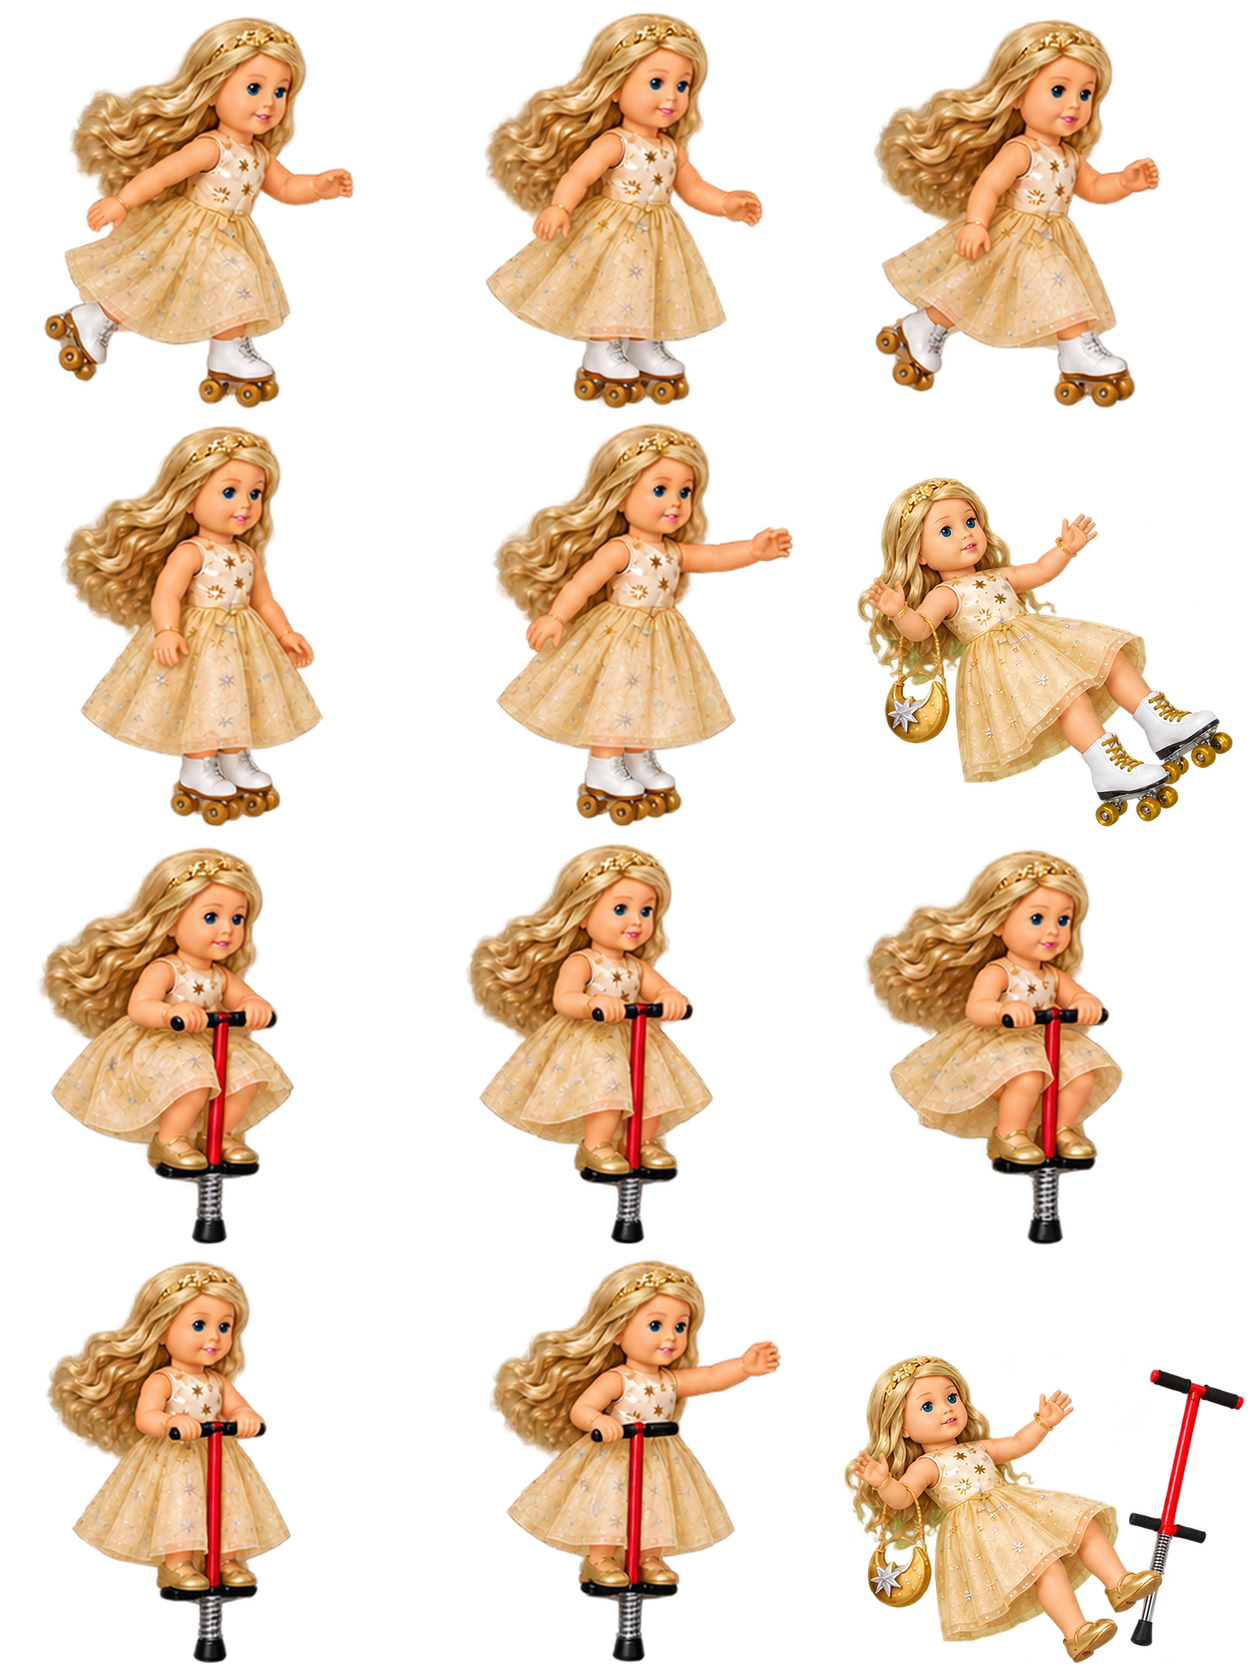
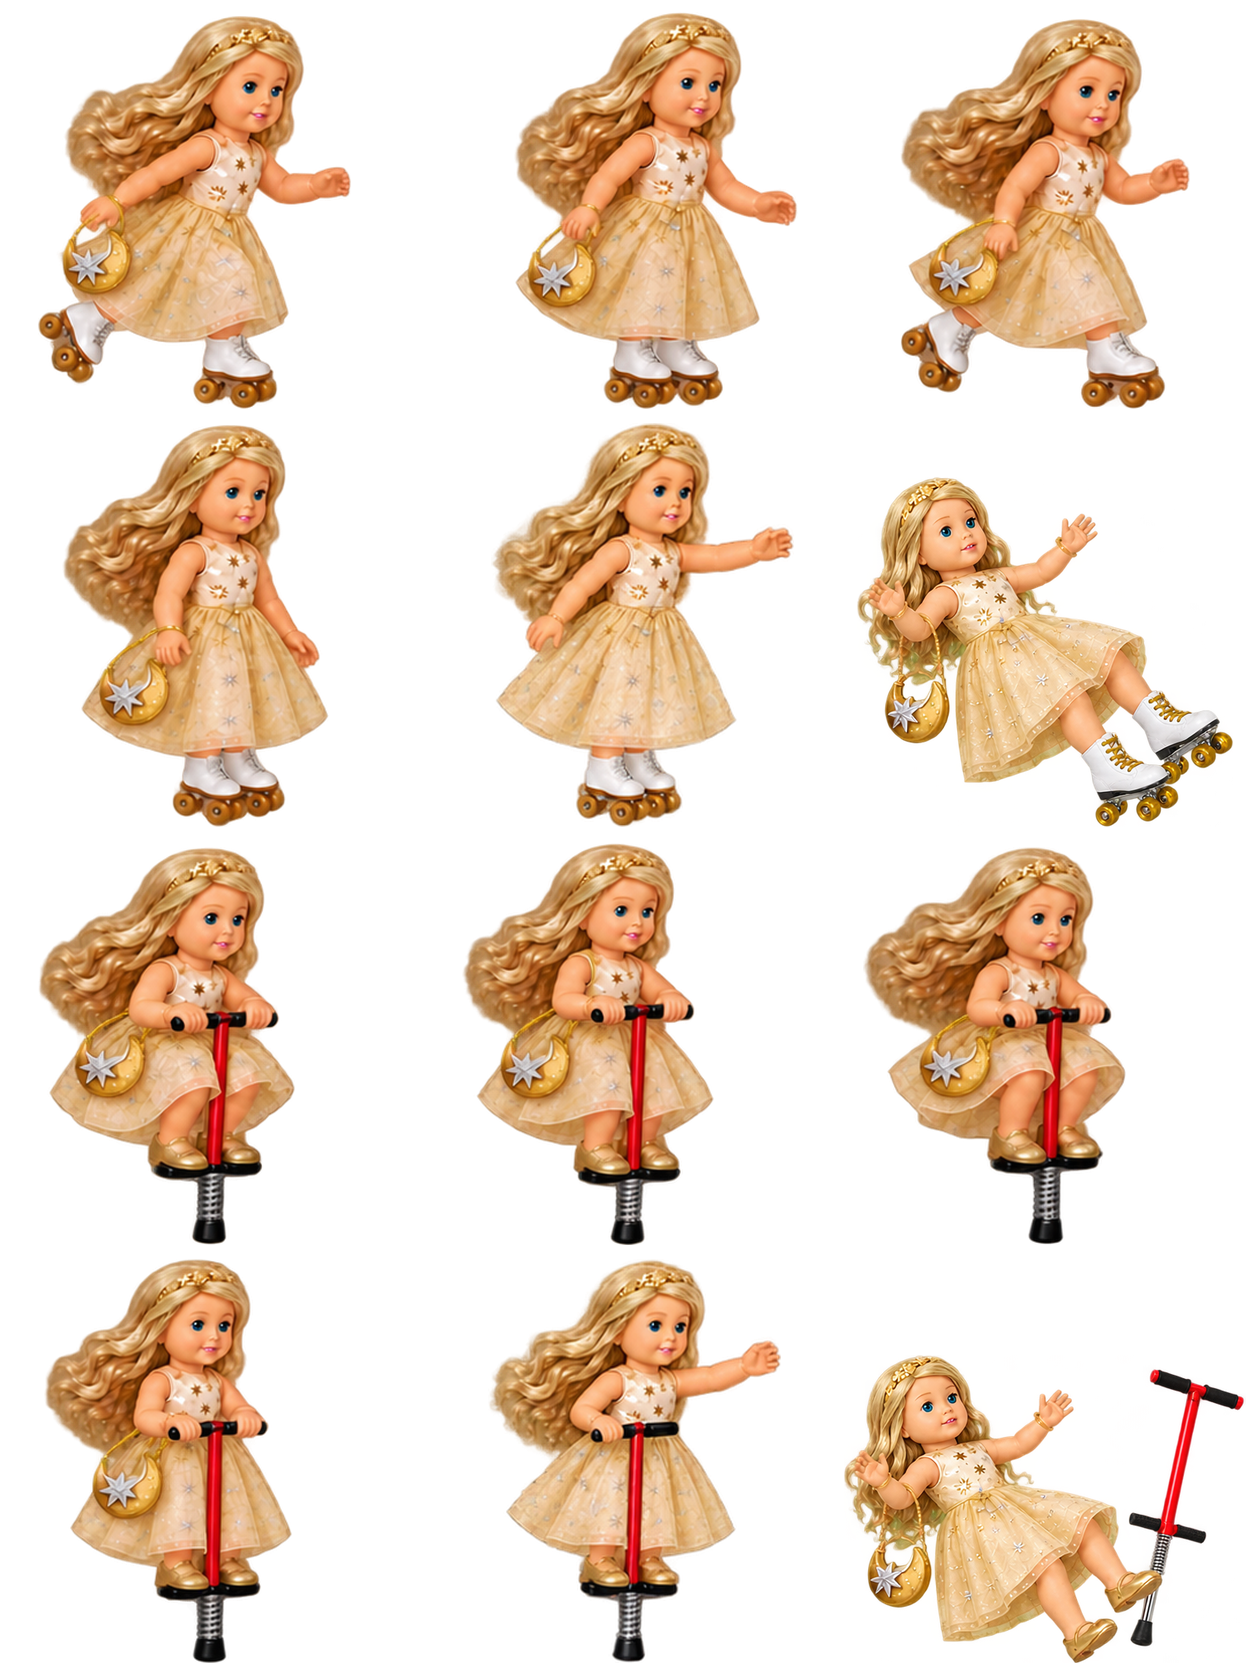
Restore Juliette purse in eight toy cells; exact-cell checks and in-game outfit review passed

diff --git a/americangirldollrace/index.html b/americangirldollrace/index.html
@@ -21,7 +21,7 @@
     <link rel="preload" as="image" href="assets/ui/title_hero_lily.webp" fetchpriority="high">
     <link rel="preload" as="image" href="assets/ui/title_hero_rumi.webp" fetchpriority="high">
     <link rel="preload" as="image" href="assets/ui/title_hero_kaya.webp" fetchpriority="high">
-    <link rel="stylesheet" href="styles.css?v=20261021-actions-trial">
+    <link rel="stylesheet" href="styles.css?v=20261021-toys-juliette">
   </head>
   <body>
     <main class="shell">
@@ -303,19 +303,19 @@
       </section>
     </main>
     <div id="barsHint" hidden><span class="bars-arrow" aria-hidden="true">↑</span> Swipe up to hide Safari’s bars · or Share → Add to Home Screen</div>
-    <script src="config.js?v=20261021-actions-trial"></script>
-    <script src="tracks.js?v=20261021-actions-trial"></script>
-    <script src="assets/audio/manifest.js?v=20261021-actions-trial"></script>
-    <script src="audio.js?v=20261021-actions-trial"></script>
-    <script src="recolor.js?v=20261021-actions-trial"></script>
-    <script src="dolls.js?v=20261021-actions-trial"></script>
-    <script src="hands.js?v=20261021-actions-trial"></script>
-    <script src="outfits.js?v=20261021-actions-trial"></script>
-    <script src="mounts.js?v=20261021-actions-trial"></script>
-    <script src="broom.js?v=20261021-actions-trial"></script>
-    <script src="troll-art.js?v=20261021-actions-trial"></script>
-    <script src="game.js?v=20261021-actions-trial"></script>
-    <script src="menu.js?v=20261021-actions-trial"></script>
-    <script src="chrome.js?v=20261021-actions-trial"></script>
+    <script src="config.js?v=20261021-toys-juliette"></script>
+    <script src="tracks.js?v=20261021-toys-juliette"></script>
+    <script src="assets/audio/manifest.js?v=20261021-toys-juliette"></script>
+    <script src="audio.js?v=20261021-toys-juliette"></script>
+    <script src="recolor.js?v=20261021-toys-juliette"></script>
+    <script src="dolls.js?v=20261021-toys-juliette"></script>
+    <script src="hands.js?v=20261021-toys-juliette"></script>
+    <script src="outfits.js?v=20261021-toys-juliette"></script>
+    <script src="mounts.js?v=20261021-toys-juliette"></script>
+    <script src="broom.js?v=20261021-toys-juliette"></script>
+    <script src="troll-art.js?v=20261021-toys-juliette"></script>
+    <script src="game.js?v=20261021-toys-juliette"></script>
+    <script src="menu.js?v=20261021-toys-juliette"></script>
+    <script src="chrome.js?v=20261021-toys-juliette"></script>
   </body>
 </html>

diff --git a/americangirldollrace/tracks.js b/americangirldollrace/tracks.js
@@ -61,7 +61,7 @@
 window.TRACK_SHARED_ART = ["skeleton_horse", "troll_riding", "frog", "scarecrow", "skeleton"];
 // Dolls (asset keys) whose roller-skate / pogo sheet is delivered:
 // assets/doll_<key>_toys.webp and its mask (image-requests.md §8).
-window.RIDE_TOY_ART_VERSION = "20261021-fall-v3";
+window.RIDE_TOY_ART_VERSION = "20261021-purse-v1";
 window.RIDE_TOY_SHEETS = ["lily", "mira", "hermione", "whirlpool", "juliette", "claudia-v2", "kaya", "amanda", "penelope", "rumi-v2", "barbie", "cinnamon", "felicity", "luna"];
 // Packed frame calibration preserves anatomy when long hair or fall poses need more room.
 window.RIDE_TOY_FRAMES = {

diff --git a/americangirldollrace/tools/dolls/toys/purse-redo/build.py b/americangirldollrace/tools/dolls/toys/purse-redo/build.py
@@ -1,0 +1,17 @@
+"""Install only the eight requested purse cells; preserve four interaction cells exactly."""
+from pathlib import Path
+import json,hashlib,importlib.util
+from PIL import Image
+H=Path(__file__).resolve().parent;T=H.parent;G=T.parents[2]
+s=importlib.util.spec_from_file_location('toys',T/'build.py');t=importlib.util.module_from_spec(s);s.loader.exec_module(t)
+report=json.loads((T/'reports/juliette.json').read_text());meta=json.loads((T/'overrides/juliette.json').read_text());source=t.full_cells(t.packing.clean(Image.open(H/'source.webp')),required_slots={0,1,2,3,6,7,8,9});sheet=Image.open(H/'before-sheet.webp').convert('RGBA');mask=Image.open(H/'before-mask.webp').convert('RGB');verification={}
+for n in [0,1,2,3,6,7,8,9]:
+ xy=(n%3*418,n//3*418);old=sheet.crop((*xy,xy[0]+418,xy[1]+418));ob=t.packing.bounds(old);c=source[n];b=t.packing.bounds(c);factor=(ob[3]-ob[1])/(b[3]-b[1]);size=(round((b[2]-b[0])*factor),round((b[3]-b[1])*factor))
+ pivot=t.face_info(c)[0] if n<6 else t.tip_centre(c);target=t.face_info(old)[0] if n<6 else t.tip_centre(old);x=round(target-(pivot-b[0])*factor);y=409-size[1];assert x>=4 and x+size[0]<=414 and y>=4,(n,x,y,size)
+ frame=Image.new('RGBA',(418,418));frame.alpha_composite(c.crop(b).resize(size,Image.Resampling.LANCZOS),(x,y));m=Image.new('RGB',(418,418));m.paste(t.learned_mask(c,'juliette',n).crop(b).resize(size,Image.Resampling.LANCZOS),(x,y));sheet.paste(frame,xy);mask.paste(m,xy)
+ for im,suffix in [(frame,''),(m,'-mask')]:t.packing.save(im,T/f'overrides/juliette-{n}{suffix}.webp')
+ record=dict(report['frames'][n]);record['bounds']=t.packing.bounds(frame);record['purseRedo']={'sourceScale':factor,'sourcePivot':pivot,'targetPivot':target};meta[str(n)]=record;report['frames'][n]=record
+for n in [4,5,10,11]:
+ xy=(n%3*418,n//3*418);box=(*xy,xy[0]+418,xy[1]+418)
+ for kind,im in [('sheet',sheet),('mask',mask)]:verification[f'{kind}:{n}']=hashlib.sha256(im.crop(box).tobytes()).hexdigest()
+target=G/'assets/doll_juliette_toys.webp';t.packing.save(sheet,target,exact=True);t.packing.save(mask,G/'assets/masks/juliette_toys_mask.webp');report['sha256']=hashlib.sha256(target.read_bytes()).hexdigest();(T/'reports/juliette.json').write_text(json.dumps(report,indent=2)+'\n');(T/'overrides/juliette.json').write_text(json.dumps(meta,indent=2)+'\n');(H/'verification.json').write_text(json.dumps(verification,indent=2)+'\n');print('Juliette purse: 8 cells replaced, 4 interaction cells preserved')

diff --git a/americangirldollrace/tools/dolls/toys/build.py b/americangirldollrace/tools/dolls/toys/build.py
@@ -92,7 +92,7 @@ def mask_for(cell,key,chin):
     return Image.fromarray(out)
 
 
-def full_cells(src,rows=4):
+def full_cells(src,rows=4,required_slots=None):
     # Assign disconnected prop pieces to the closest atlas slot, then crop
     # whole components. This preserves poses that extend past a nominal grid
     # line without cutting their hair, hand or pogo tip into the next slot.
@@ -113,12 +113,17 @@ def full_cells(src,rows=4):
     for slot in range(rows*3):
         pixels=a.copy();pixels[assigned!=slot+1,3]=0
         cell=Image.fromarray(pixels);b=packing.bounds(cell);assert b,(slot,'empty source pose')
-        assert b[0]>0 and b[1]>0 and b[2]<src.width and b[3]<src.height,(slot,'source clips outer edge',b)
+        if required_slots is None or slot in required_slots:
+            assert b[0]>0 and b[1]>0 and b[2]<src.width and b[3]<src.height,(slot,'source clips outer edge',b)
         cells.append(cell.crop((max(0,b[0]-5),max(0,b[1]-5),min(src.width,b[2]+5),min(src.height,b[3]+5))))
     return cells
 
 
 def build(key):
+    if key == 'juliette' and (HERE/'purse-redo/source.webp').exists():
+        spec=importlib.util.spec_from_file_location('juliette_purse_redo',HERE/'purse-redo/build.py')
+        module=importlib.util.module_from_spec(spec);spec.loader.exec_module(module)
+        return json.loads((HERE/'reports/juliette.json').read_text())
     if key in ['lily','mira','hermione'] and (HERE/'fall-redo'/f'{key}-sheet-before.webp').exists():
         import redo_falls
         redo_falls.run([key])

diff --git a/americangirldollrace/tools/dolls/toys/check.py b/americangirldollrace/tools/dolls/toys/check.py
@@ -24,3 +24,11 @@ if verification.exists():
    im=Image.open(path).convert('RGBA' if kind=='sheet' else 'RGB');x=n%3*418;y=n//3*418
    assert hashlib.sha256(im.crop((x,y,x+418,y+418)).tobytes()).hexdigest()==expected,(key,'Unrelated cell changed',token)
  print('Trial fall redo: all other 60 image/mask cells pixel-identical')
+
+verification=HERE/'purse-redo/verification.json'
+if verification.exists():
+ for token,expected in json.loads(verification.read_text()).items():
+  kind,n=token.split(':');n=int(n);p=GAME/('assets/doll_juliette_toys.webp' if kind=='sheet' else 'assets/masks/juliette_toys_mask.webp')
+  im=Image.open(p).convert('RGBA' if kind=='sheet' else 'RGB');x=n%3*418;y=n//3*418
+  assert hashlib.sha256(im.crop((x,y,x+418,y+418)).tobytes()).hexdigest()==expected,token
+ print('Juliette purse redo: both push and both fall cells remain pixel-identical')

diff --git a/americangirldollrace/image-requests.md b/americangirldollrace/image-requests.md
@@ -213,7 +213,7 @@ Sizes are final pixel sizes. The game scales art down but never up.
 > The §8 riding toys are in for fourteen dolls; K3 (trial falls) and the
 > §8.1 icons R10, R12–R14 are delivered.
 > **Still open:** §11 run-cycle redos for Felicity, Claudia and Barbie (RC1–RC3),
-> §8.0.2 Juliette purse redo (K4), §8 toys for Marisol and remaining §10 doll actions.
+> §8 toys for Marisol and remaining §10 doll actions.
 > Delivered: Hermione/Lily/Mira action trial, all §10.2 shared sprites and both
 > §9 monsters; retained sources, calibration and in-game reviews accompany them.
 
@@ -438,7 +438,12 @@ normal falls during a race, so they should match.
 | --- | --- | --- | --- |
 | K3 | `assets/doll_{lily,mira,hermione}_toys.webp` and their masks | Row 2 cell 3 (skate fall) and row 4 cell 3 (pogo fall) only | Redraw each to match that doll's normal fall (`doll_<key>_sprites.webp` row 4 cell 3): the same tilt, arm and leg positions and place in the frame, with the skates on, or with the stick tipping away. Keep every other cell pixel-identical and update the masks to match. |
 
-### 8.0.2 Open redo: Juliette's purse (K4)
+### 8.0.2 Delivered redo: Juliette's purse (K4)
+
+K4 is delivered and reviewed in game, including alternate colours and both directions.
+Only the eight requested cells changed; both pushes and both falls remain
+decoded-pixel-identical. Sources, overrides and checks are in
+`tools/dolls/toys/purse-redo/`.
 
 Juliette's sprite sheet shows her gold crescent-moon purse in every pose
 except the push/throw frame (row 4 cell 2). Her toy sheet drops it from
